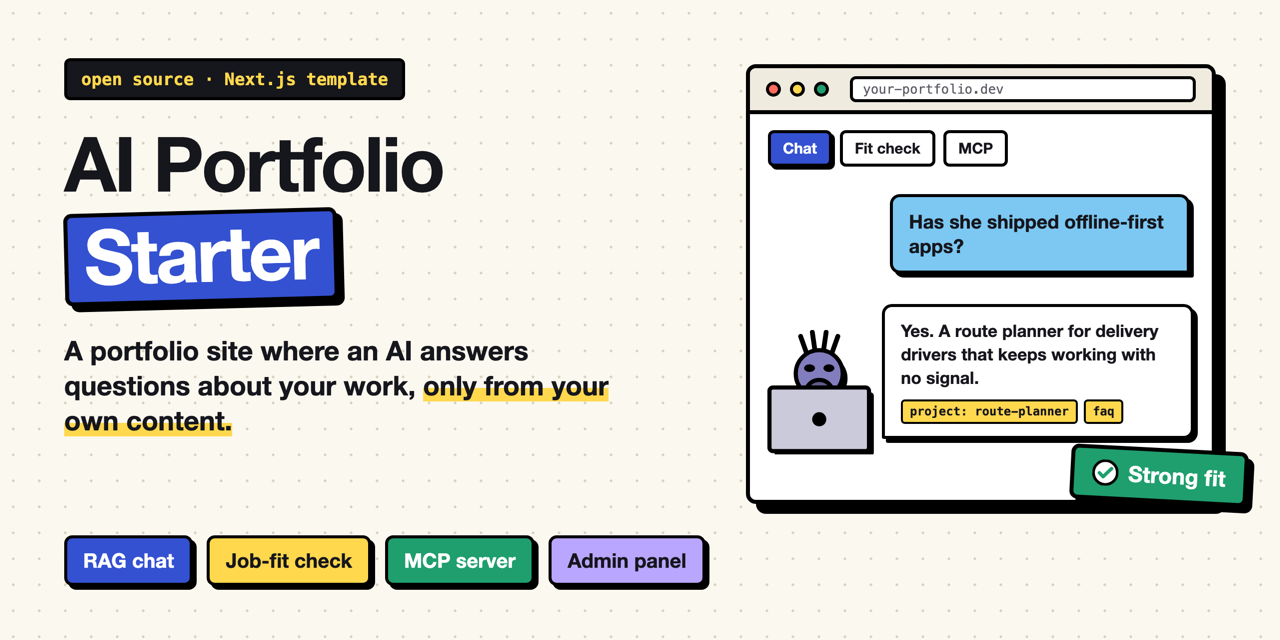
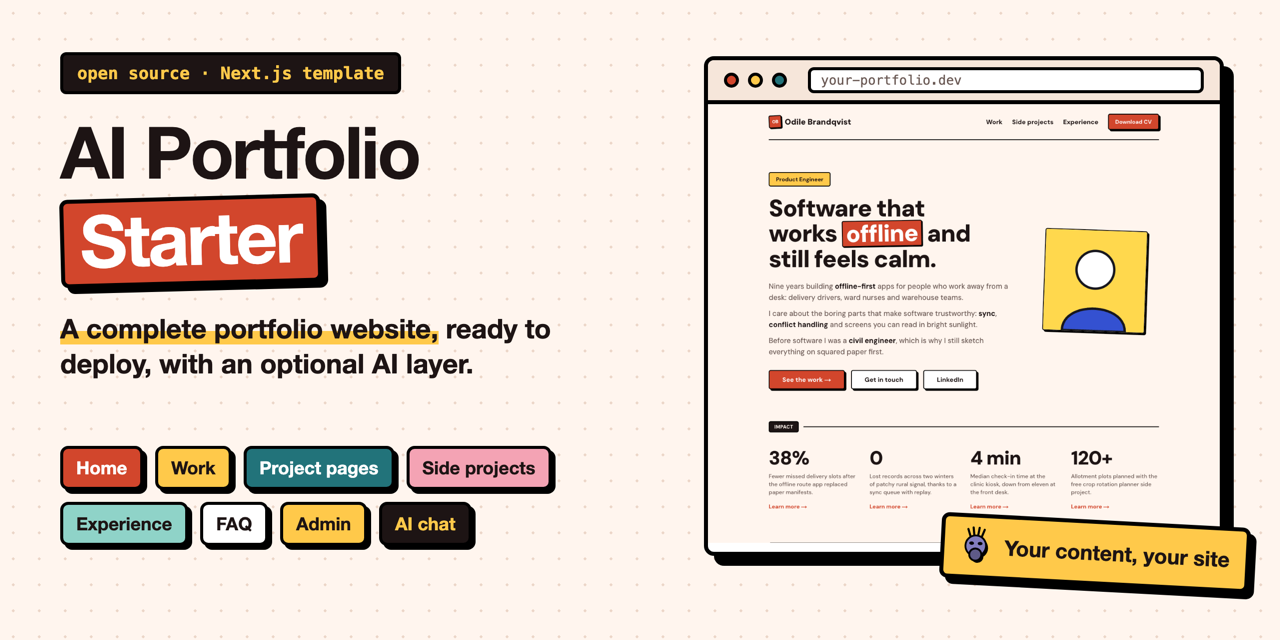
README: portfolio-first visuals at the top
New Coral banner that leads with the portfolio, a site tour GIF of every
page, the AI layer infographic in Coral, a manage-with-your-agent still
and an everything-ready grid, each with a one-line heading, then the
detail sections below.

diff --git a/README.md b/README.md
@@ -4,13 +4,37 @@
 
 **A complete portfolio website for developers and designers, plus an optional AI layer that answers questions about your work from your own content.**
 
-Built with Next.js 16, Prisma 7, Postgres with pgvector and OpenAI. Deploys to Vercel with a free Neon database. Ships with a fictional sample persona (Odile Brandqvist, a product engineer) so you can see every page working before you add your own content.
-
 [![Deploy with Vercel](https://vercel.com/button)](https://vercel.com/new/clone?repository-url=https%3A%2F%2Fgithub.com%2Fmutlumehmet%2Fai-portfolio-starter&project-name=my-portfolio&repository-name=my-portfolio&env=OPENAI_API_KEY%2CADMIN_PASSWORD%2CSESSION_SECRET&envDescription=An%20OpenAI%20API%20key%20for%20the%20chat%2C%20a%20password%20for%20%2Fadmin%2C%20and%20any%20long%20random%20string%20to%20sign%20the%20admin%20session.&envLink=https%3A%2F%2Fgithub.com%2Fmutlumehmet%2Fai-portfolio-starter%23environment-variables&stores=%5B%7B%22type%22%3A%22integration%22%2C%22protocol%22%3A%22storage%22%2C%22integrationSlug%22%3A%22neon%22%2C%22productSlug%22%3A%22neon%22%7D%5D)
+
+## Take the tour
+
+Every page of the site, shown with the sample content: home, selected work, project pages, side projects, experience, FAQ, the admin panel and the AI layer.
+
+![Site tour: the home page, selected work, a project page, side projects, experience, the FAQ, the admin panel and the AI chat, one after another in a browser frame](docs/images/site-tour.gif)
+
+## How the AI layer answers
+
+The chat, the fit check and the MCP server answer only from your own content, through the same search. Details in [The AI layer](#the-ai-layer-optional).
+
+![How it works: your content goes into Postgres, rag:ingest turns it into embeddings, and the chat, the fit check and the MCP server answer only from the closest chunks](docs/images/how-it-works.gif)
+
+## Manage it with your agent
+
+Edit content in `/admin`, or let any coding agent add and remove projects with a JSON file. The search index re-syncs after every write. See [Make it yours](#make-it-yours).
+
+![A portfolio you can manage with your agent: the admin panel next to a terminal where a coding agent runs npm run project:upsert and the search index re-syncs](docs/images/manage-with-agent.png)
+
+## Everything is ready
+
+The parts you would otherwise build yourself are already in place. Details in [Ready to deploy](#ready-to-deploy).
+
+![Everything is ready: one-click deploy, self-setup database, Postgres with pgvector, ready backend, admin panel, security, rate limits, colour themes, feature flags and an optional AI layer](docs/images/everything-ready.png)
 
 ## Ready to deploy
 
-Everything is already done for you.
+Built with Next.js 16, Prisma 7, Postgres with pgvector and OpenAI. Deploys to Vercel with a free Neon database. Ships with a fictional sample persona (Odile Brandqvist, a product engineer) so you can see every page working before you add your own content.
+
+Everything below is already done for you.
 
 | Built in | What you get |
 |---|---|
@@ -111,7 +135,7 @@ On the home page, visitors and recruiters get one panel with three tabs:
 
 ### How the AI layer works
 
-![How it works: your content goes into Postgres, rag:ingest turns it into embeddings, and the chat, the fit check and the MCP server answer only from the closest chunks](docs/images/how-it-works.gif)
+The [animation above](#how-the-ai-layer-answers) shows these steps.
 
 1. Your content (projects, experience, FAQs) lives in Postgres. You load it from the JSON files in `content/` or edit it in `/admin`.
 2. `npm run rag:ingest` splits that content into short chunks, turns each into an embedding (a list of 1536 numbers that captures its meaning) with OpenAI, and stores them in a pgvector column.
@@ -204,7 +228,7 @@ Without `DATABASE_URL` the steps are skipped and only the site is built. `npm ru
 3. **Images** go in `public/`. Project images live in `public/projects/<slug>/`; their sizes are measured at install and build time so covers of the right shape fill their card. Replace `public/avatar.svg` with your photo (and update `person.photo`).
 4. **CV:** replace `public/cv.pdf` with your own.
 5. **`/admin`** lets you edit all content in the browser once deployed. Every save updates the chat's search index in the background.
-6. **Single projects from the command line:** `npm run project:upsert -- path/to/project.json`.
+6. **Projects from the command line or a coding agent:** `npm run project:upsert -- path/to/project.json` creates or updates one project from a JSON file (same shape as `scripts/example-project.json`), and `npm run project:delete -- <slug>` removes one. Both re-sync the chat's search index straight away, so an AI coding assistant can manage your projects for you.
 
 ### Colour themes
 
